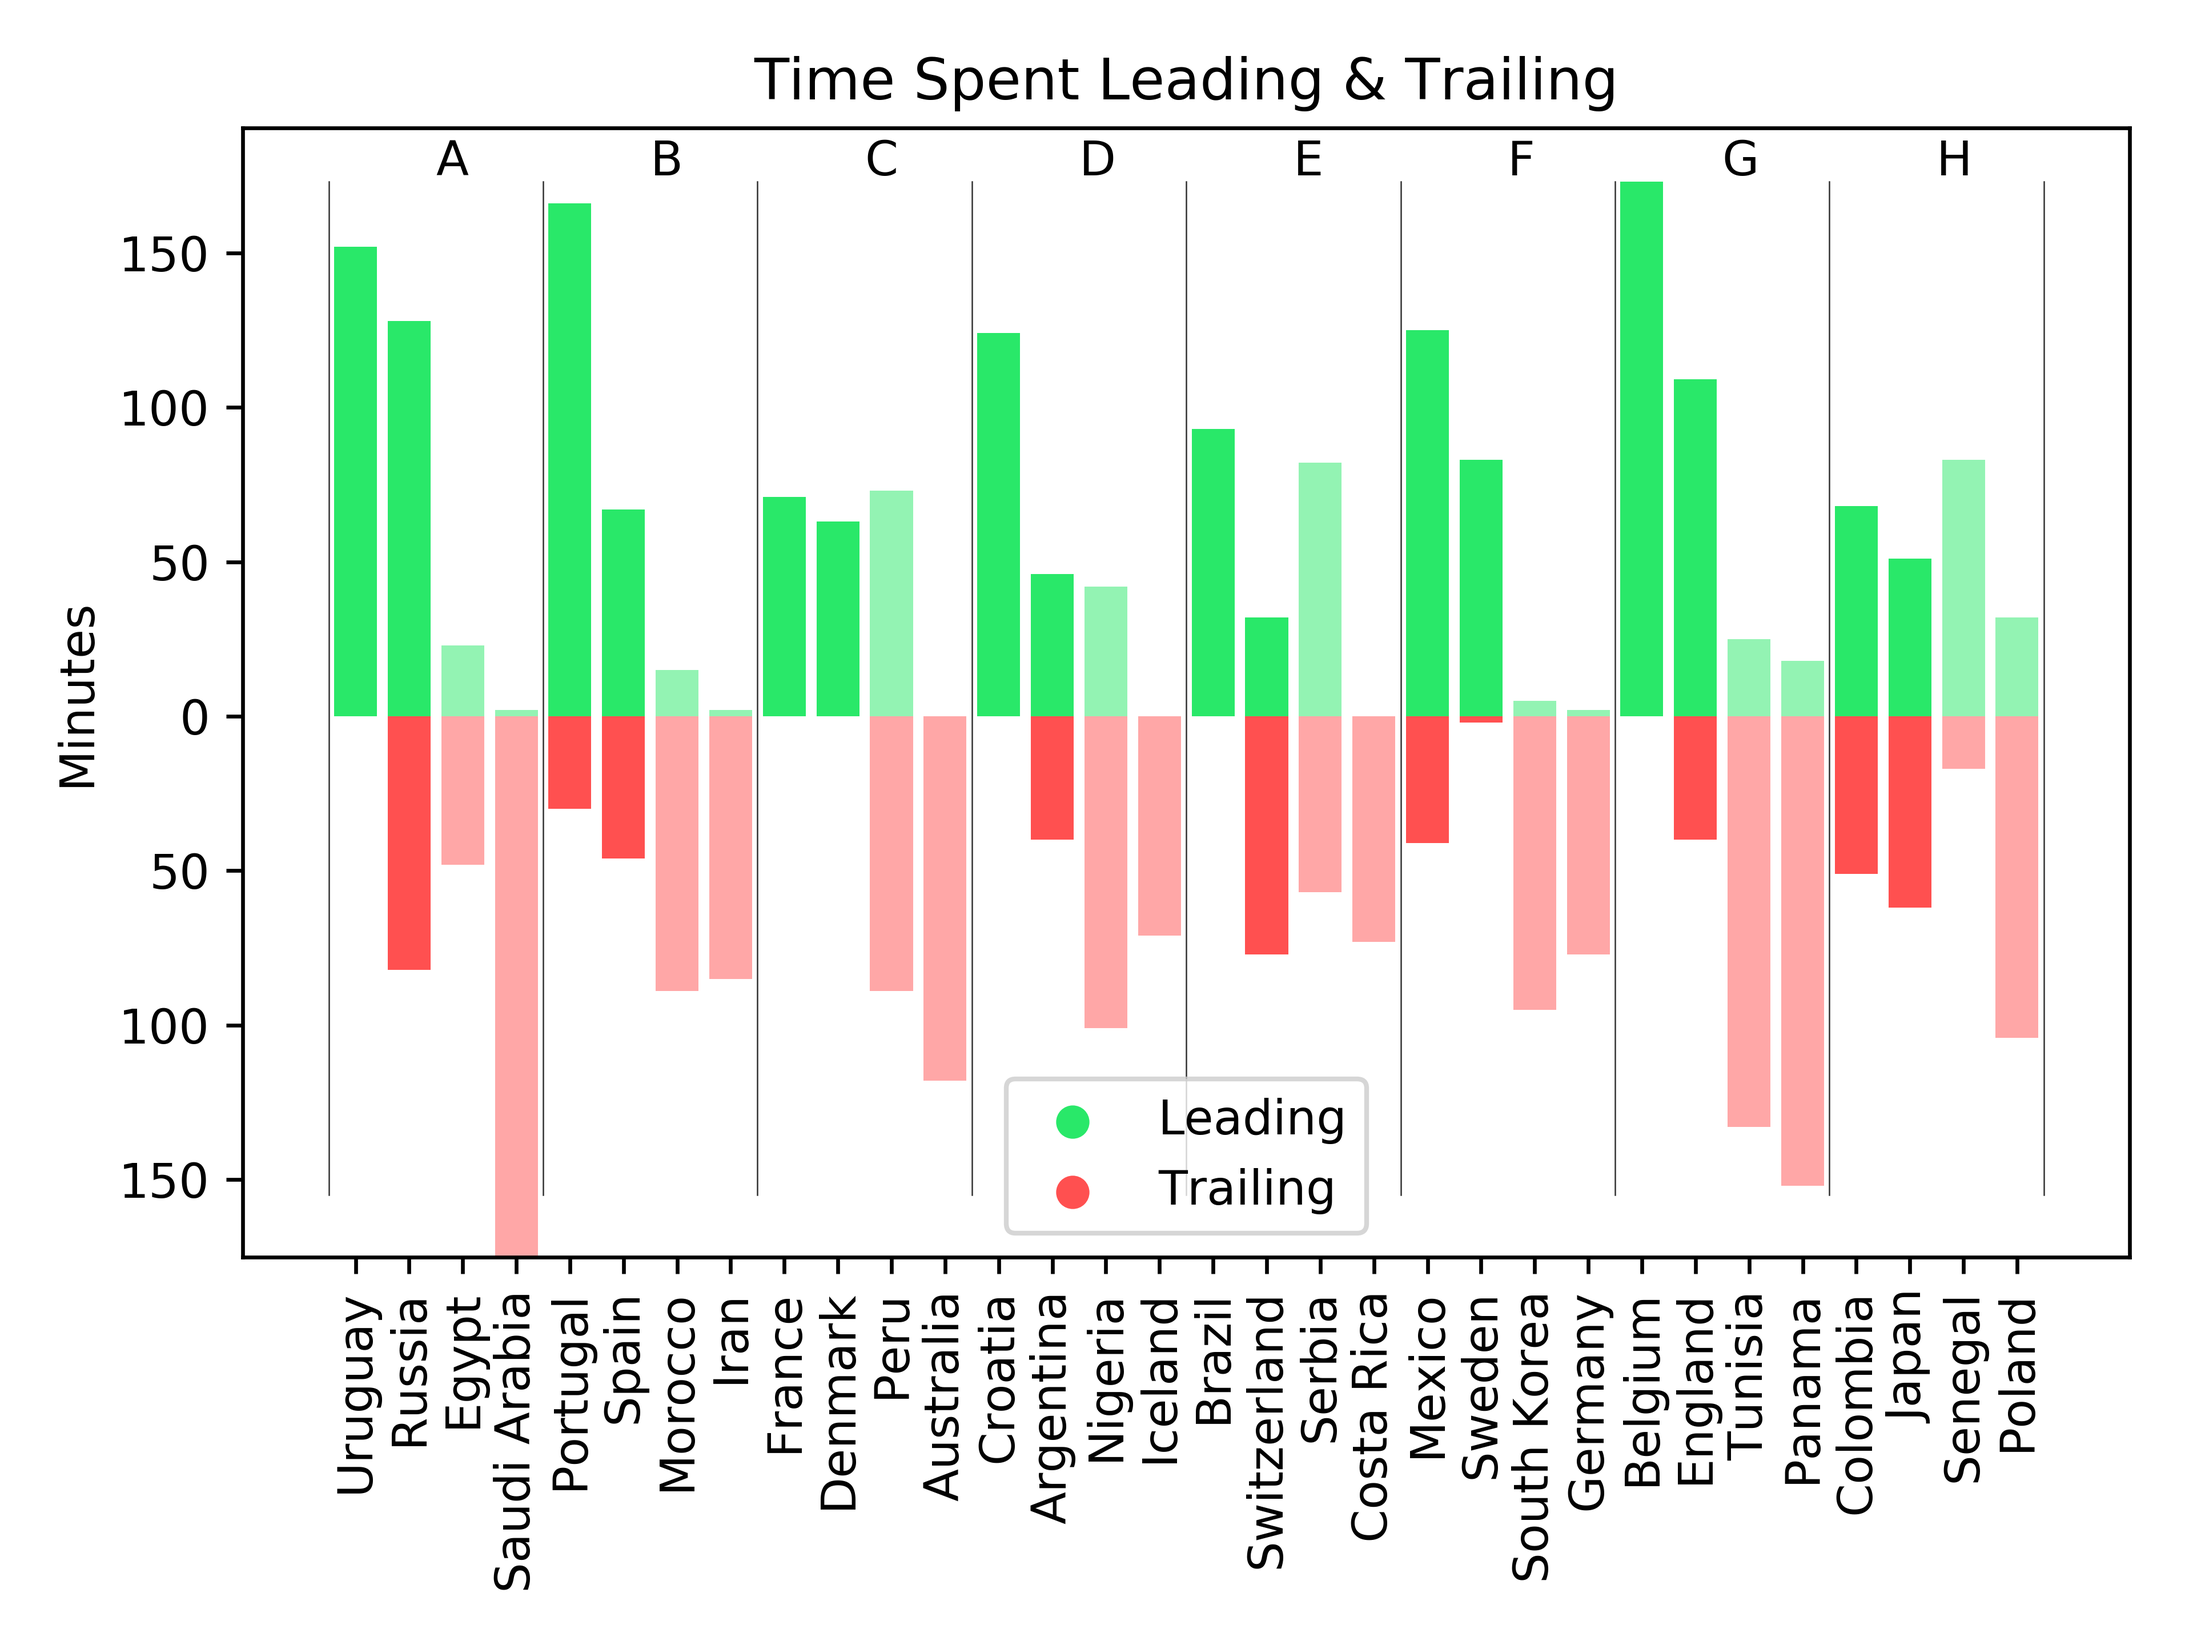
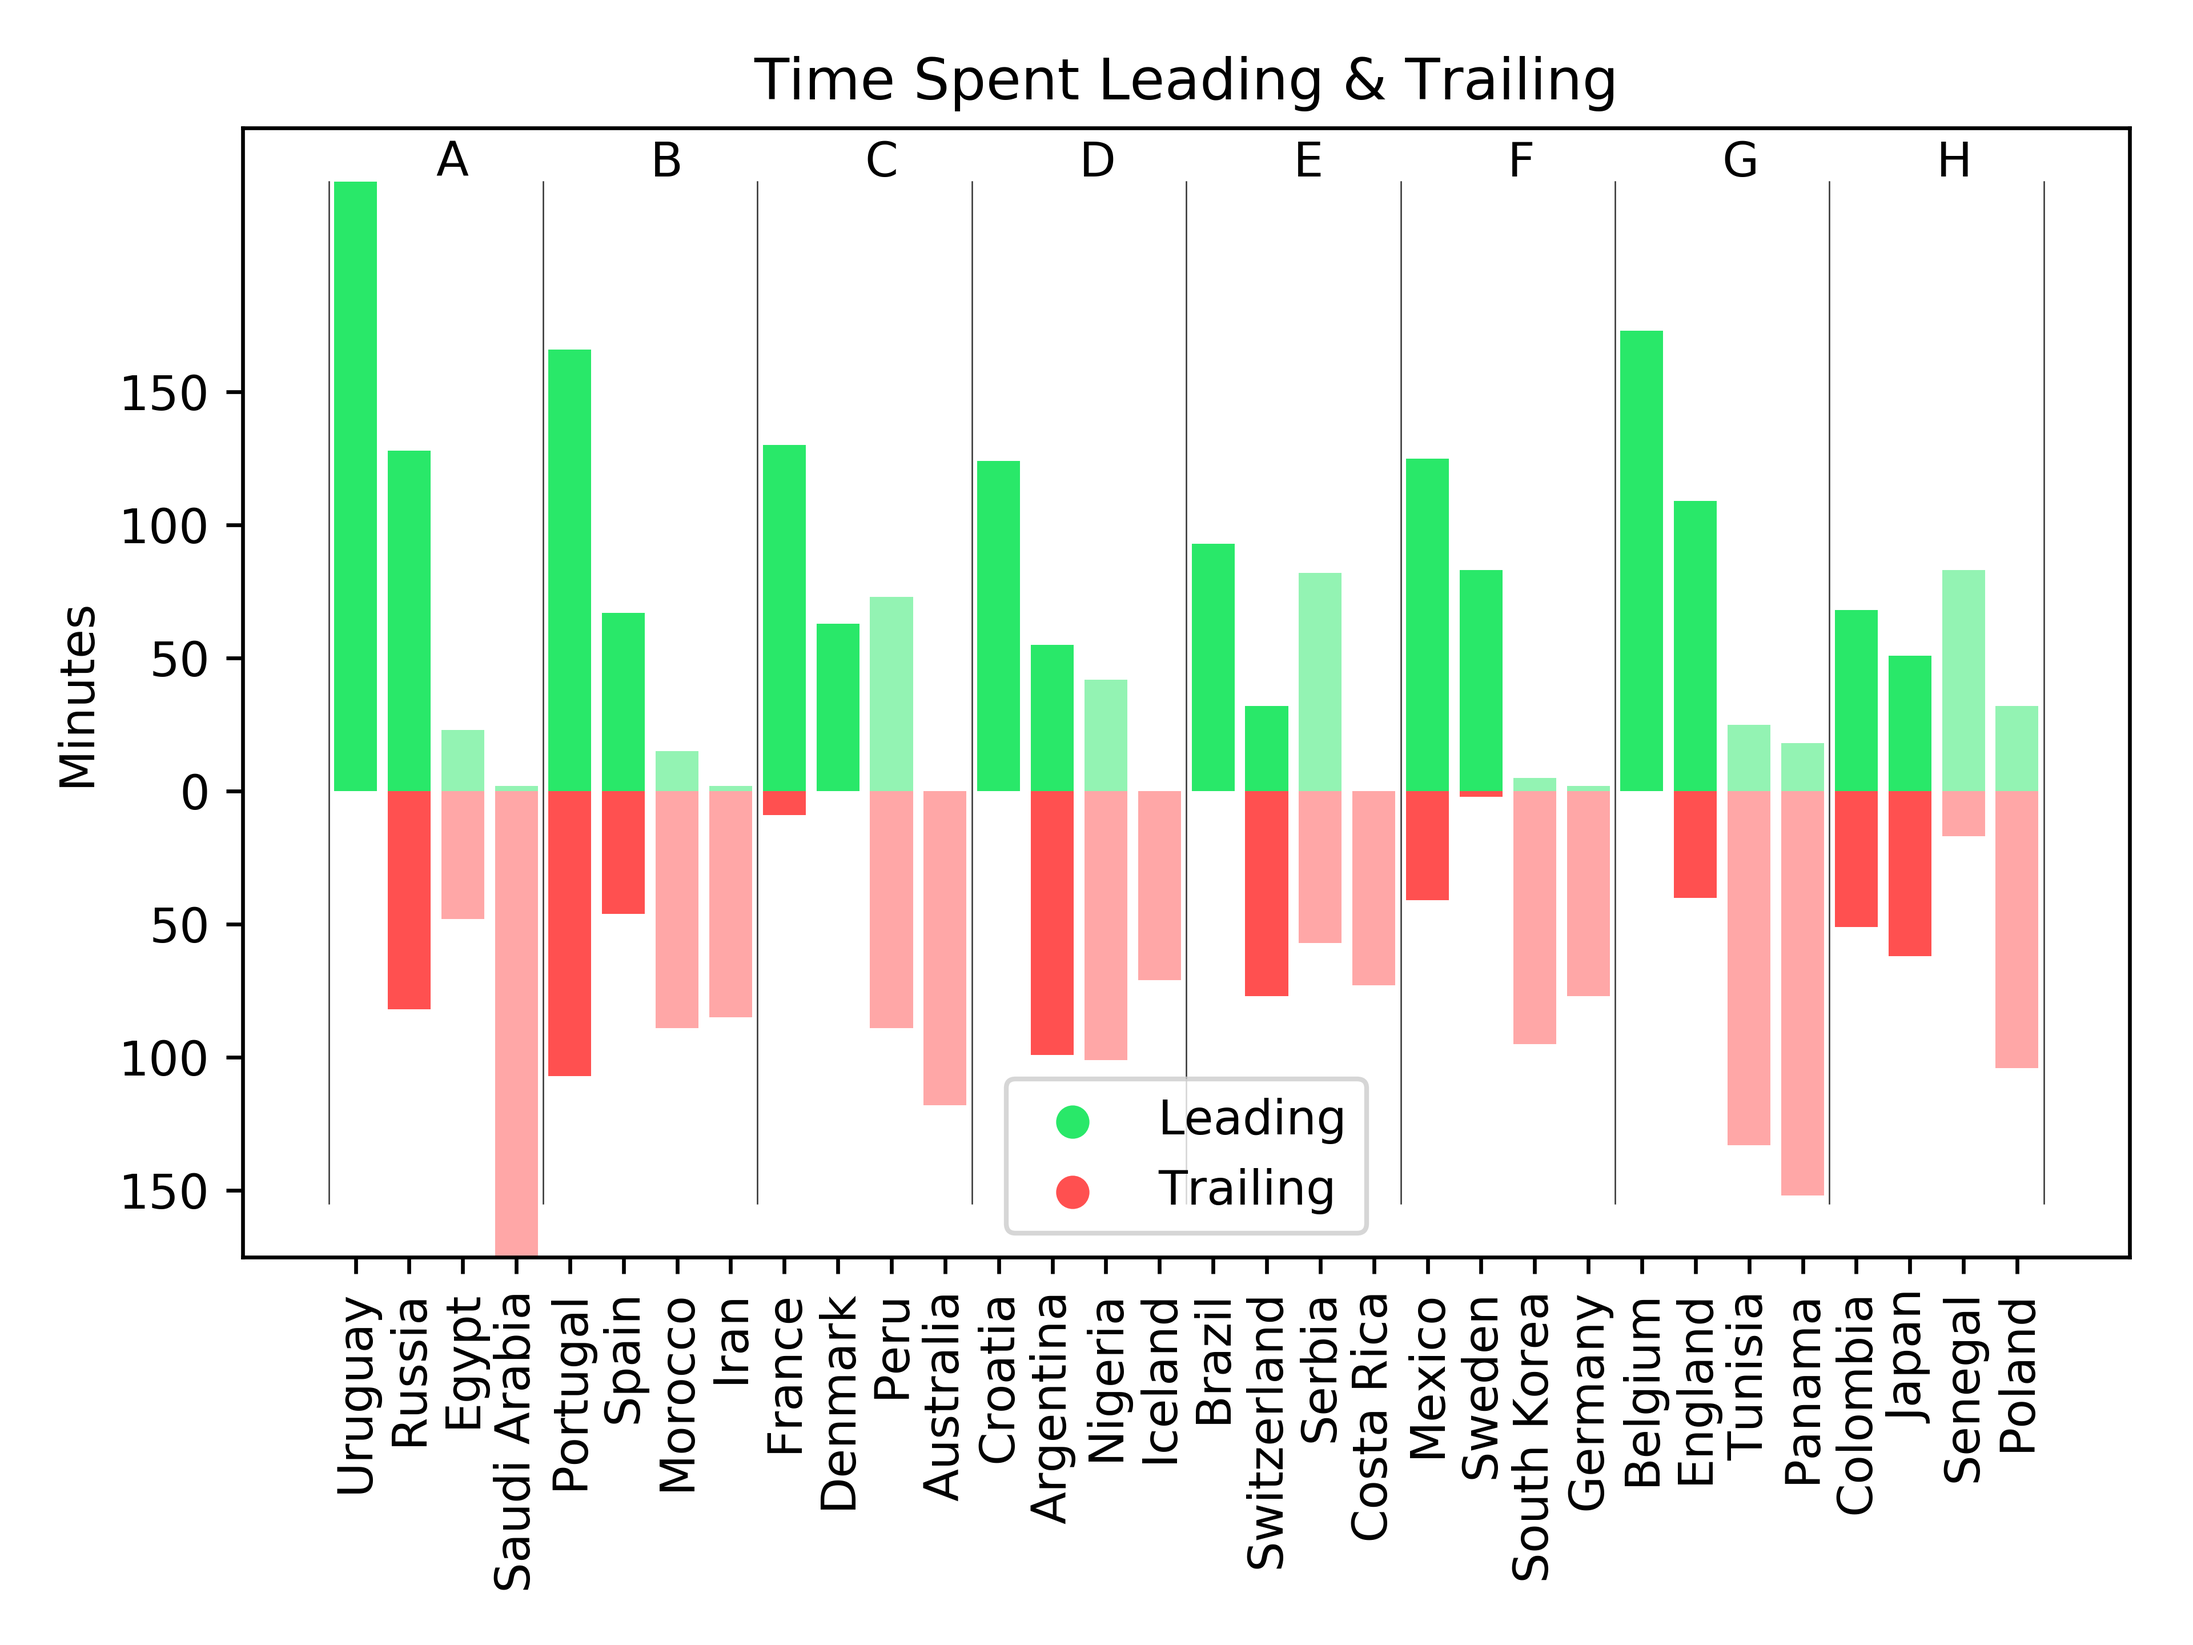
leading trailing times script added

diff --git a/standings.py b/standings.py
@@ -1,0 +1,114 @@
+import MySQLdb
+import pandas as pd
+
+db = MySQLdb.connect(host="localhost", user="root", passwd="harpic",
+                     db="leading_trailing")
+cursor = db.cursor()
+
+# query to get all teams from a particular competition
+team_query = """
+            select distinct(home_team)
+            from matches
+            where 1=1
+            and competition = '%s';
+            """
+
+# query to get all matches from particular competition
+match_query = """
+            select match_id
+            from matches
+            where 1=1
+            and competition = '%s';
+            """
+
+# query to fetch final scores for games in particular games
+scores_query = """
+            select k.home_score, k.away_score, o.home_team, o.away_team
+            from (select m.match_id, max(m.minute) as OK
+                    from scores m where 1=1 and m.match_id = %s) as t
+            join scores k on k.match_id = t.match_id
+            join matches o on o.match_id = k.match_id
+            where 1=1
+            and t.OK = k.minute;
+            """
+
+# determines time that the home team was leading for
+lead_query = """
+            select
+            sum(if((e.home_score > e.away_score), 1, 0))
+            from extended_scores e
+            join matches m on m.match_id = e.match_id
+            where 1=1
+            and m.match_id = %s;
+            """
+
+# determines time home team was trailing for
+trail_query = """
+            select
+            sum(if((e.home_score < e.away_score), 1, 0))
+            from extended_scores e
+            join matches m on m.match_id = e.match_id
+            where 1=1
+            and m.match_id = %s;
+            """
+
+
+def get_season_data(matches):
+    # iterate through matches and collect scores
+    for match in matches:
+        # get the final score of the game
+        cursor.execute(scores_query % match)
+        data = cursor.fetchall()[-1]
+        # assign data to variables
+        home_goal, away_goal, home_team, away_team = data
+
+        # increment games played
+        standings[home_team]['gp'] += 1
+        standings[away_team]['gp'] += 1
+
+        # determine who won and assign points
+        if home_goal > away_goal:
+            standings[home_team]['pts'] += 3
+        elif home_goal < away_goal:
+            standings[away_team]['pts'] += 3
+        elif home_goal == away_goal:
+            standings[home_team]['pts'] += 1
+            standings[away_team]['pts'] += 1
+
+        # add goals scored, against, and goal difference
+        standings[home_team]['gs'] += home_goal
+        standings[home_team]['ga'] += away_goal
+        standings[home_team]['gd'] += home_goal - away_goal
+        standings[away_team]['gs'] += away_goal
+        standings[away_team]['ga'] += home_goal
+        standings[away_team]['gd'] += away_goal - home_goal
+
+        # compute time spent leading [home]
+        cursor.execute(lead_query % match)
+        home_lead = cursor.fetchall()[0][0]
+        standings[home_team]['leading'] += home_lead
+        standings[away_team]['trailing'] += home_lead
+
+        # compute time spent trailing [home]
+        cursor.execute(trail_query % match)
+        home_trail = cursor.fetchall()[0][0]
+        standings[away_team]['leading'] += home_trail
+        standings[home_team]['trailing'] += home_trail
+
+
+cursor.execute(team_query % 'FA_Premier_League_2017-2018')
+teams = cursor.fetchall()
+teams = [t[0] for t in teams]
+standings = {t: {'gp': 0, 'pts': 0, 'gs': 0, 'ga': 0, 'gd': 0, 'leading': 0,
+                 'trailing': 0} for t in teams}
+cursor.execute(match_query % 'FA_Premier_League_2017-2018')
+matches = cursor.fetchall()
+matches = [m[0] for m in matches]
+get_season_data(matches)
+
+df = pd.DataFrame(standings)
+df = df.transpose()
+df.sort_values(by=['pts', 'gd', 'gs', 'ga'], ascending=[0, 0, 0, 1],
+               inplace=True)
+df = df[['gp', 'pts', 'gs', 'ga', 'gd', 'leading', 'trailing']]
+print(df)
